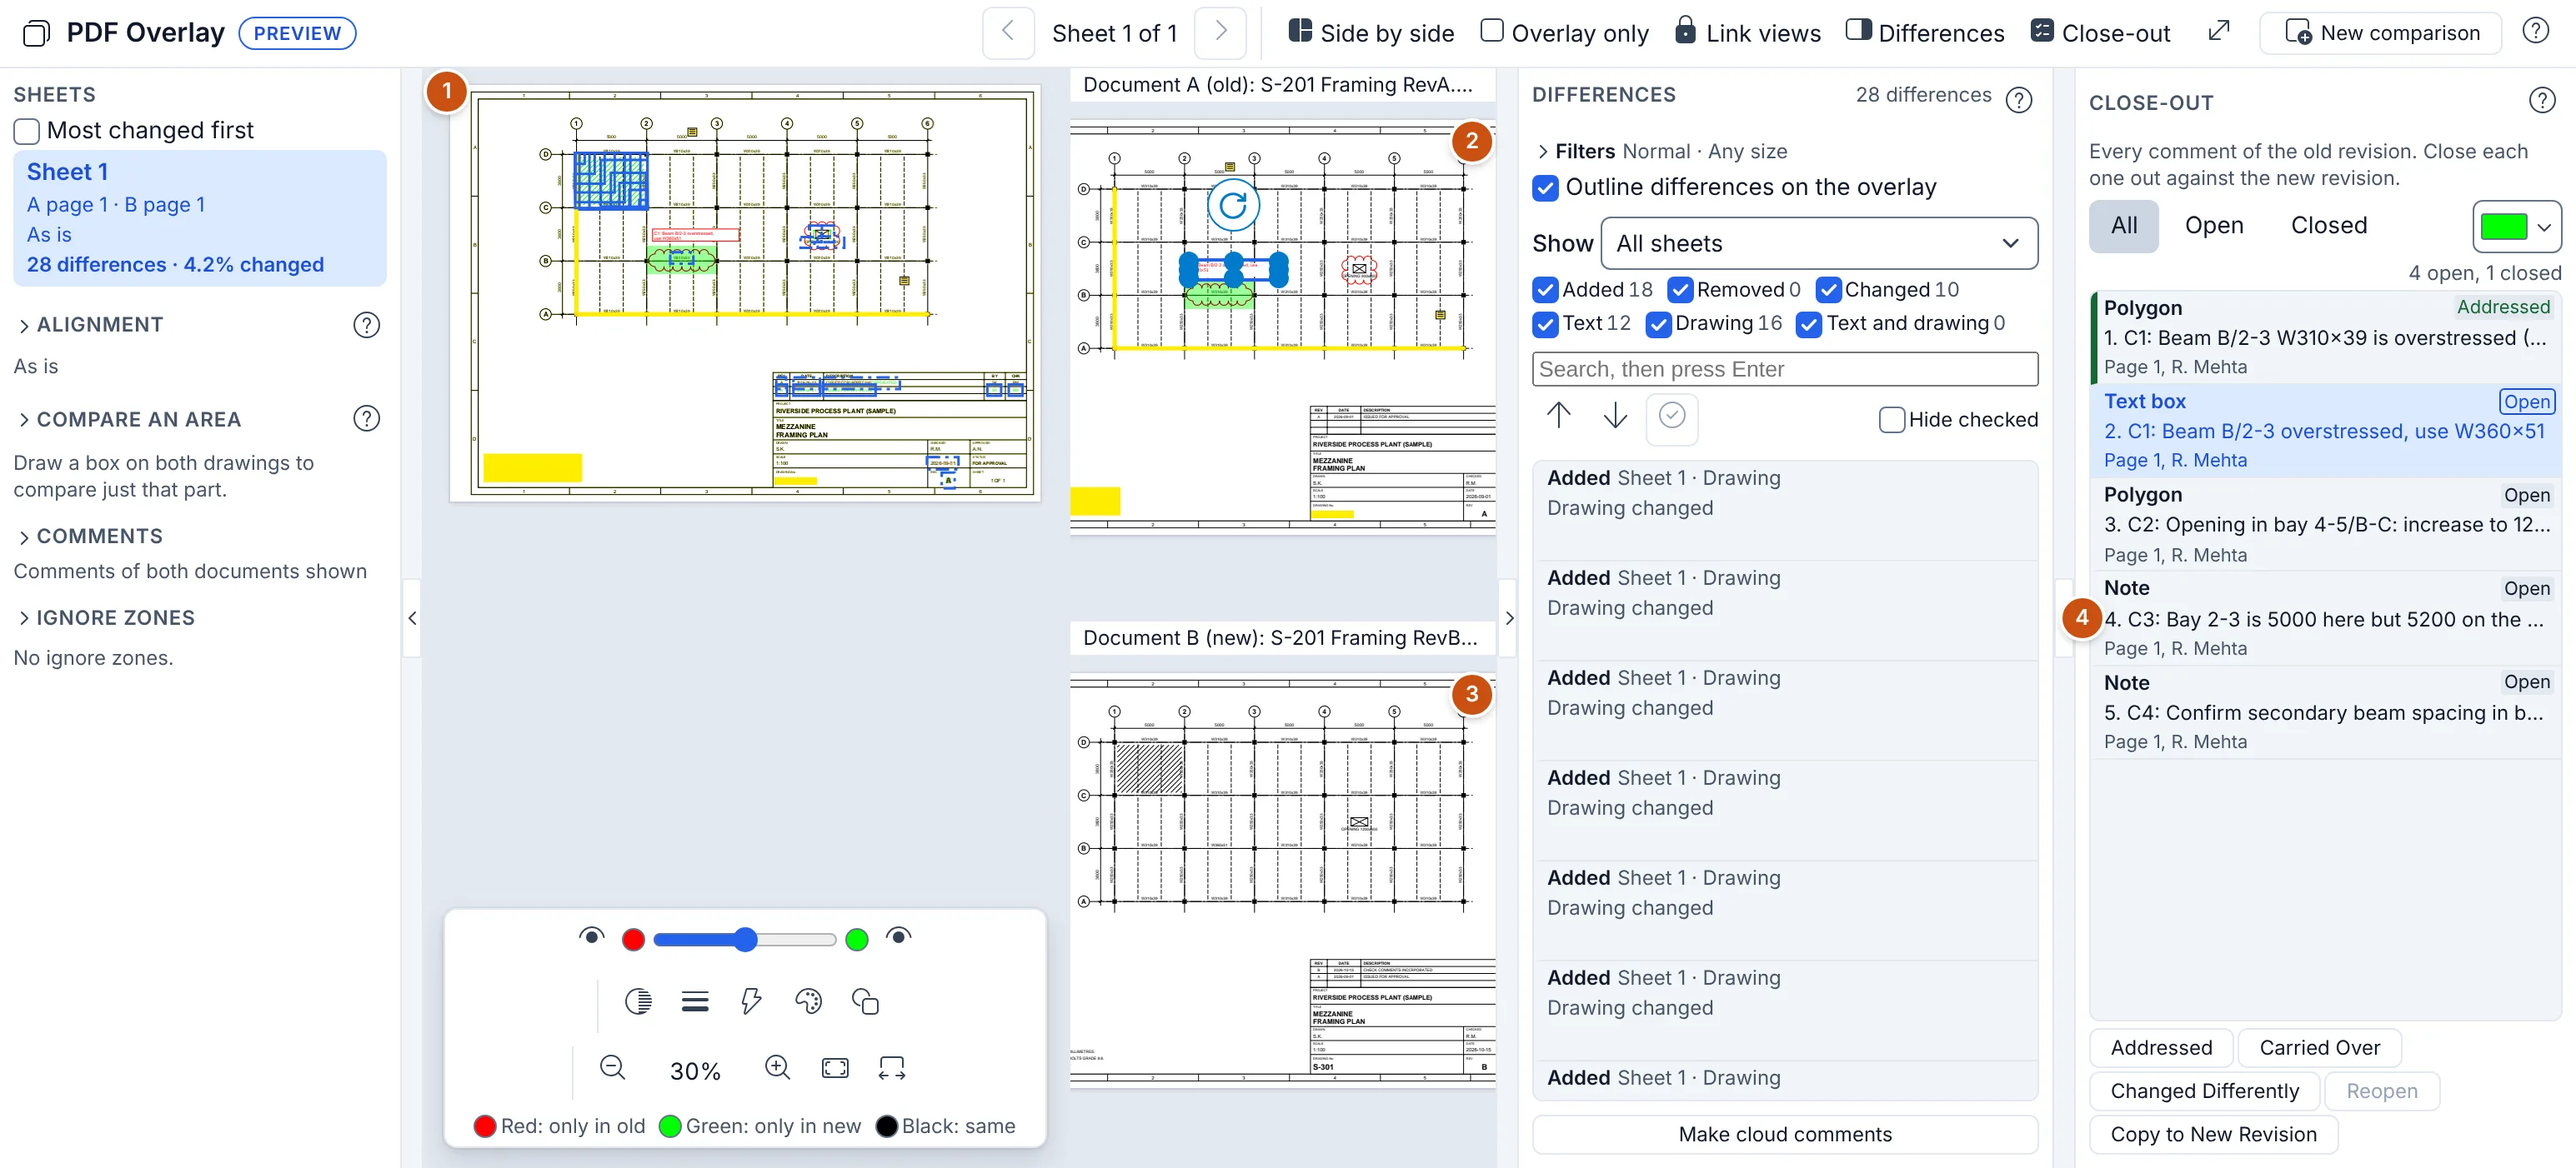
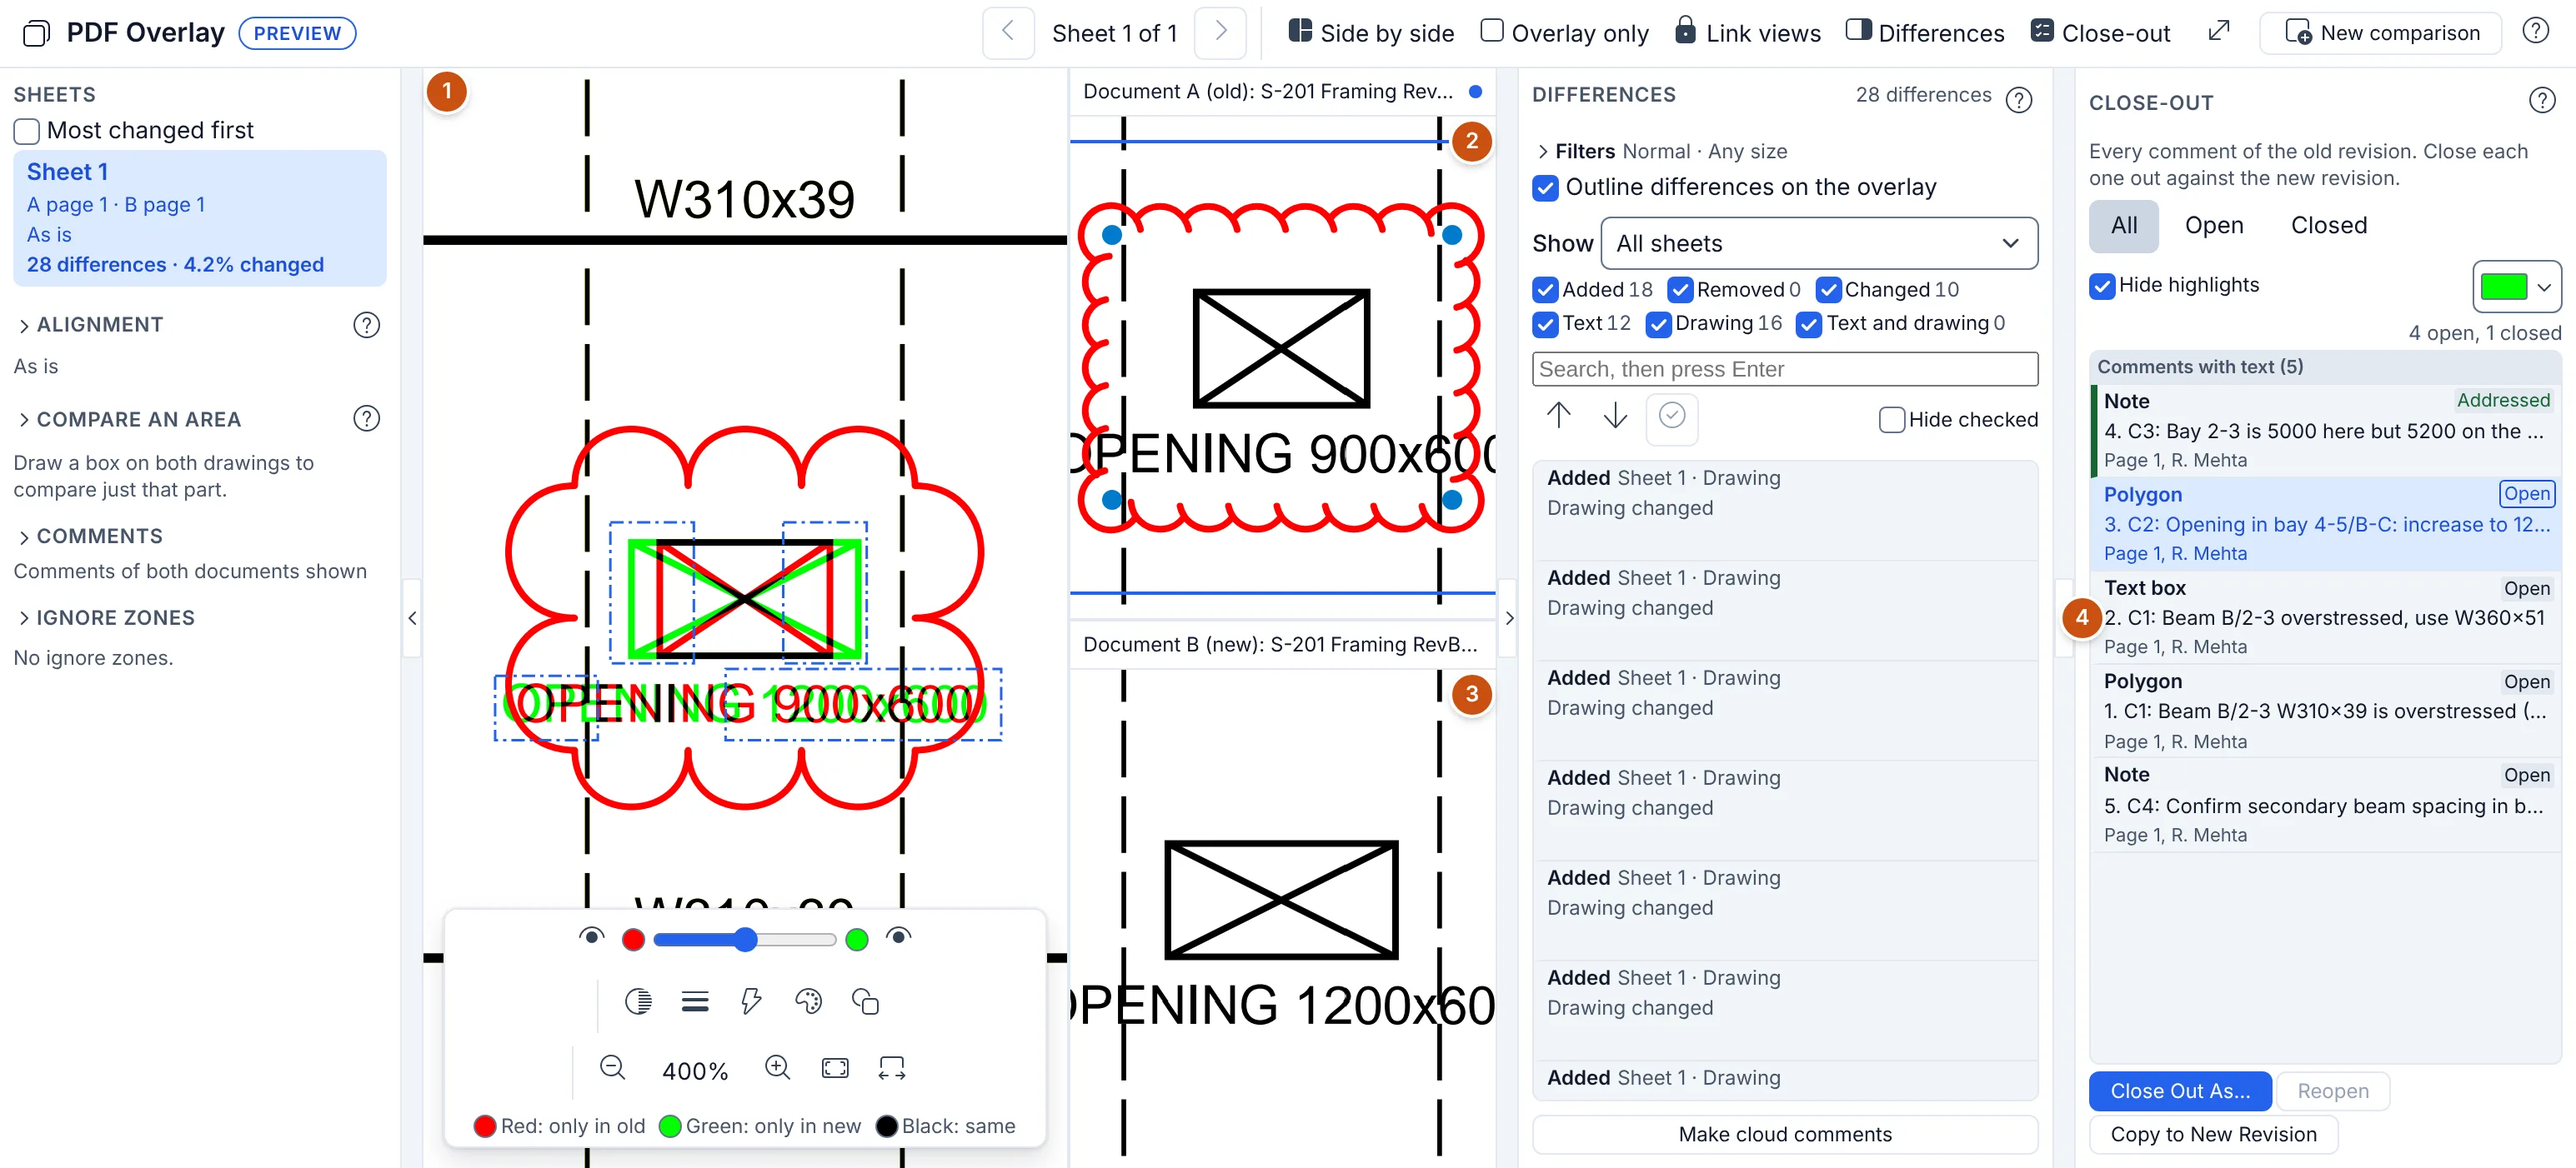
M12-27: split helpers from components, storage list test, help shots, PROGRESS (ADR-033, D-62, D-64)
- unsaved.ts / UnsavedDot.tsx and pageFlash.ts / PageFlashLayer.tsx so
  fast refresh lint passes.
- theme.test lists the close-out Hide highlights key.
- compare-closeout: poll while Reopen removes its parts.
- Help shots regenerated after the M12-25 merge.

Claude-Session: https://claude.ai/code/session_01JyMu1wdJw8GF9fiDzGuxWa

diff --git a/src/features/view/pageFlash.ts b/src/features/view/pageFlash.ts
@@ -1,9 +1,9 @@
 // A box on a page flashed once (M12-27, ADR-033): where a comment is, after
 // the close-out list brought it into view. Drawn by every document window
 // over its page (page points as laid out, origin top left, before the page's
-// own rotation, like the annotation layers), never a comment and never saved.
-// With reduced motion it shows as a still outline for the same time.
-import { createStore, useStore } from 'zustand';
+// own rotation, like the annotation layers; PageFlashLayer.tsx), never a
+// comment and never saved. With reduced motion it shows as a still outline.
+import { createStore } from 'zustand';
 
 /** A box to flash: its document, page (0-based) and rectangle [x0, y0, x1, y1] in page points. */
 export interface PageFlash {
@@ -17,7 +17,7 @@ export interface PageFlash {
 /** How long a flash shows (ms): the CSS animation's length. */
 export const FLASH_MS = 1200;
 
-const flashStore = createStore<{ flashes: readonly PageFlash[] }>()(() => ({ flashes: [] }));
+export const flashStore = createStore<{ flashes: readonly PageFlash[] }>()(() => ({ flashes: [] }));
 
 let next = 0;
 
@@ -34,38 +34,4 @@ export function flashBox(
   setTimeout(() => {
     flashStore.setState((s) => ({ flashes: s.flashes.filter((x) => x !== f) }));
   }, FLASH_MS);
-}
-
-/** The flashes shown now (tests). */
-export const shownFlashes = (): readonly PageFlash[] => flashStore.getState().flashes;
-
-/** A page's flash, if it has one. */
-export function PageFlashLayer({
-  documentId,
-  pageIndex,
-  scale,
-}: {
-  documentId: string;
-  pageIndex: number;
-  scale: number;
-}) {
-  const f = useStore(flashStore, (s) =>
-    s.flashes.find((x) => x.docId === documentId && x.page === pageIndex),
-  );
-  if (!f) return null;
-  const [x0, y0, x1, y1] = f.box;
-  return (
-    <div
-      key={f.key}
-      className="comment-flash"
-      aria-hidden="true"
-      data-testid="comment-flash"
-      style={{
-        left: x0 * scale,
-        top: y0 * scale,
-        width: (x1 - x0) * scale,
-        height: (y1 - y0) * scale,
-      }}
-    />
-  );
 }

diff --git a/src/features/compare/UnsavedDot.tsx b/src/features/compare/UnsavedDot.tsx
@@ -1,20 +1,8 @@
-// The unsaved mark of a comparison (M12-27, ADR-033 decision 5): the document
+// The unsaved dot of a comparison window (M12-27, ADR-033 decision 5): the document
 // tabs' dot after the window titles of Document A and B, and on the comparison's
 // tab when any of its documents (A, B or the overlay's notes) has unsaved changes.
 import { useTranslation } from 'react-i18next';
-import { useDocuments, type DocumentSlice } from '../../app/store/documentStore';
-import { documentsOf, type Comparison } from './model';
-import { notesStore } from './review/notes';
-
-/** Whether a comparison has unsaved changes: in Document A, B, or the overlay's notes. */
-export function comparisonUnsaved(
-  c: Comparison,
-  docs: Readonly<Record<string, DocumentSlice | undefined>>,
-): boolean {
-  if (documentsOf(c).some((d) => docs[d]?.dirty === true)) return true;
-  const notes = notesStore.getState().byId[c.id]?.docId;
-  return !!notes && docs[notes]?.dirty === true;
-}
+import { useDocuments } from '../../app/store/documentStore';
 
 /** The dot after a window's title while its document has unsaved changes, named for screen readers. */
 export function UnsavedDot({ docId, testId }: { docId: string; testId?: string }) {

diff --git a/src/features/compare/unsaved.ts b/src/features/compare/unsaved.ts
@@ -1,0 +1,16 @@
+// The unsaved mark of a comparison (M12-27, ADR-033 decision 5): the document
+// tabs' dot after the window titles of Document A and B, and on the comparison's
+// tab when any of its documents (A, B or the overlay's notes) has unsaved changes.
+import type { DocumentSlice } from '../../app/store/documentStore';
+import { documentsOf, type Comparison } from './model';
+import { notesStore } from './review/notes';
+
+/** Whether a comparison has unsaved changes: in Document A, B, or the overlay's notes. */
+export function comparisonUnsaved(
+  c: Comparison,
+  docs: Readonly<Record<string, DocumentSlice | undefined>>,
+): boolean {
+  if (documentsOf(c).some((d) => docs[d]?.dirty === true)) return true;
+  const notes = notesStore.getState().byId[c.id]?.docId;
+  return !!notes && docs[notes]?.dirty === true;
+}

diff --git a/src/features/view/PageFlashLayer.tsx b/src/features/view/PageFlashLayer.tsx
@@ -1,0 +1,34 @@
+// The flash drawn over a page (M12-27, ADR-033); see pageFlash.ts.
+import { useStore } from 'zustand';
+import { flashStore } from './pageFlash';
+
+/** A page's flash, if it has one. */
+export function PageFlashLayer({
+  documentId,
+  pageIndex,
+  scale,
+}: {
+  documentId: string;
+  pageIndex: number;
+  scale: number;
+}) {
+  const f = useStore(flashStore, (s) =>
+    s.flashes.find((x) => x.docId === documentId && x.page === pageIndex),
+  );
+  if (!f) return null;
+  const [x0, y0, x1, y1] = f.box;
+  return (
+    <div
+      key={f.key}
+      className="comment-flash"
+      aria-hidden="true"
+      data-testid="comment-flash"
+      style={{
+        left: x0 * scale,
+        top: y0 * scale,
+        width: (x1 - x0) * scale,
+        height: (y1 - y0) * scale,
+      }}
+    />
+  );
+}

diff --git a/e2e/compare-closeout.spec.ts b/e2e/compare-closeout.spec.ts
@@ -213,7 +213,8 @@ test("closes out the old revision's comments, following the owner's three cases 
   await row(page, 'C1-cloud').click();
   await action(page, 'Reopen').click();
   await expect(row(page, 'C1-cloud')).toHaveAttribute('data-state', 'open');
-  expect(await parts(page, a, 'C1-cloud')).toEqual([]);
+  // (Its three parts go one after another: the state first.)
+  await expect.poll(() => parts(page, a, 'C1-cloud')).toEqual([]);
   await viewport(page, 'a').focus();
   await page.keyboard.press('Control+z');
   await expect(row(page, 'C1-cloud')).toHaveAttribute('data-state', 'addressed');

diff --git a/src/features/compare/text/TextWindows.tsx b/src/features/compare/text/TextWindows.tsx
@@ -24,7 +24,7 @@ import {
 import { DocumentView } from '../../view/DocumentView';
 import { setViewFocus } from '../../view/tileScheduler';
 import { useWindowPlace } from '../review/windowPlace';
-import { UnsavedDot } from '../unsaved';
+import { UnsavedDot } from '../UnsavedDot';
 import { MarkLayer } from './MarkLayer';
 import { PageCounter } from './PageCounter';
 import { TextMarks, type MarksContext } from './marksContext';

diff --git a/tests/app/theme.test.ts b/tests/app/theme.test.ts
@@ -298,6 +298,8 @@ describe('where the theme is reached', () => {
       'pdftools.whatsNewSeen',
       // The comment fonts chosen last (M11-07), not a look-and-feel choice either.
       'pdftools.recentFonts',
+      // The close-out list's Hide highlights choice (M12-27).
+      'pdftools.closeOutHideHighlights',
     ]);
     expect(items.every((d) => d.cleared)).toBe(true);
   });

diff --git a/src/features/compare/review/ReviewLayout.tsx b/src/features/compare/review/ReviewLayout.tsx
@@ -26,7 +26,7 @@ import {
   useOverlayView,
   type Sheet,
 } from '../overlay/overlayState';
-import { UnsavedDot } from '../unsaved';
+import { UnsavedDot } from '../UnsavedDot';
 import { Splitter } from './Splitter';
 import { useWindowPlace } from './windowPlace';
 import { WindowLink, centreOnBox, fitWindow, showPage, type LinkedWindow } from './windowLink';

diff --git a/src/features/view/DocumentView.tsx b/src/features/view/DocumentView.tsx
@@ -1,4 +1,4 @@
-import { PageFlashLayer } from './pageFlash';
+import { PageFlashLayer } from './PageFlashLayer';
 import { useDocumentState } from '@embedpdf/core/react';
 import type { DocumentManagerCapability } from '@embedpdf/plugin-document-manager';
 import type { InteractionManagerCapability } from '@embedpdf/plugin-interaction-manager';

diff --git a/docs/PROGRESS.md b/docs/PROGRESS.md
@@ -1,6 +1,6 @@
 # Triya PDF — Progress
 
-_Last updated: 2026-11-23 (M12-24: the Compare input window made clearer; M12-23: M12 acceptance, M12 complete on the agent side; M12-22: Compare help and release notes; M12-21·O4: drop a tab on a tab; M12-20: the comparison file; M12-21: change register and presets)_
+_Last updated: 2026-11-23 (M12-27: review in a comparison made easier; M12-25: room to work in a comparison; M12-24: the Compare input window made clearer; M12-23: M12 acceptance, M12 complete on the agent side; M12-22: Compare help and release notes; M12-21·O4: drop a tab on a tab; M12-20: the comparison file; M12-21: change register and presets)_
 
 **Current milestone:** M12 — PDF comparison (PDF overlay for drawings, text comparison for
 documents), version 1.1.0: plan [docs/plan/M12.md](plan/M12.md) and
@@ -30,6 +30,25 @@ interop is in the M6 pack (CHECKLIST §M6 R1–R4). Rev 0 (M0–M4) is complete 
 
 ## Done
 
+- **M12-27 — Review in a comparison (ADR-033 decisions 4–6, D-62, D-64; plan [M12-ux](plan/M12-ux.md) task D).**
+  The close-out list shows comments with typed text first, then markup without text, each group
+  by page then position (`closeOutModel.ts`). A **Hide highlights** box (on by default, kept on
+  this device as `pdftools.closeOutHideHighlights`) leaves out see-through check marks; they were
+  always left out before, so the default behaves as it did. A click on a row zooms the linked
+  windows so the comment fills about a third of the window (never past 400 %), selects it and
+  flashes it once (`closeout/reveal.ts`, `view/pageFlash.ts`); in a text comparison both sides
+  scroll to it and zoom in when it is small (`TextLink.zoomTo`). The three outcome buttons became
+  one **Close Out As…** menu with a line explaining each outcome (`DropdownMenu` items take a
+  `description`). Document A and B window titles and the comparison's tab carry the unsaved dot
+  (`compare/unsaved.ts`, `UnsavedDot.tsx`); closing a comparison whose overlay comments live
+  only in it asks first (Save Comparison… / Save review, Don't save, Cancel:
+  `file/closePrompt.ts`, `CloseComparisonDialog.tsx`, `setComparisonCloseGuard` in
+  `openDocument.ts`). Each text comparison window shows "Page n of m", updated as it scrolls; a
+  click turns it into a box, Enter goes to the page and the other side follows
+  (`text/PageCounter.tsx`, `model/compare/pageCounter.ts`). Tests: `tests/compare/review-ux.test.ts`,
+  `close-out.test.ts`, `e2e/compare-review-ux.spec.ts` (axe light and dark),
+  `e2e/perf/compare-review.spec.ts`; Help topics compare-review and compare-text with new shots;
+  a What's new 1.1.0 line.
 - **M12-25 — Room to work in a comparison (ADR-033, D-62; plan [M12-ux](plan/M12-ux.md) task B).**
   Every comparison pane (the overlay's left pane, Differences, Close-out, the text view's
   Changes) has an edge strip like the app's side panes: its arrow folds the pane to the strip
